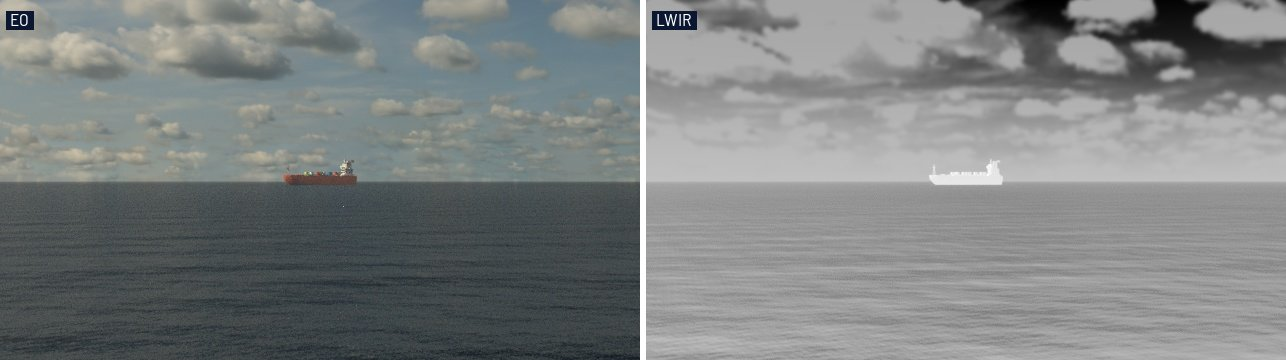
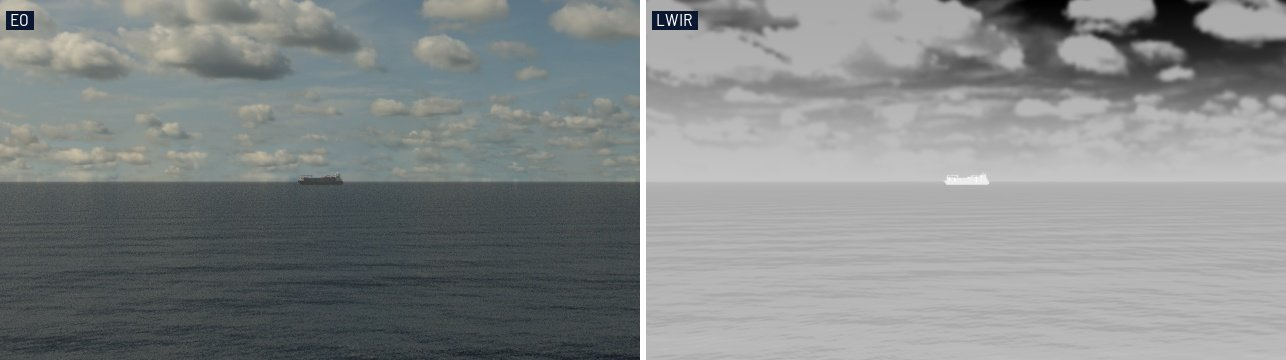
feat: the multipurpose freighter replaces the low-poly container ship
The flat-shaded Poly container ship was the first asset and the baseline's
target. The textured multipurpose freighter takes its place in every
scenario, preset, doc and test, and the hero and primer figures are
re-rendered with it.

The loop test now keys the frame after the last and checks every channel
is back at its first value, instead of asking the seam to bend no more
than any other frame, which a periodic curve can do by chance. The hero
keeps a long label inside its frame.

Changed region(s): [[0.4977, 0.4583, 1.0, 1.0], [0.2177, 0.4583, 0.2799, 0.5194], [0.4977, 0.0306, 0.5599, 0.0611]]

diff --git a/tests/test_scene.py b/tests/test_scene.py
@@ -17,7 +17,16 @@ from mathutils import Vector
 from seascape import blend, lwir, scene, sea, waves
 from seascape.assets import Buoy, Debris, Hull, manifest
 from seascape.calibration import CameraCalibration
-from seascape.config import Band, Mount, Object, Rig, Scenario, load, substream
+from seascape.config import (
+    Band,
+    Mount,
+    Object,
+    Outputs,
+    Rig,
+    Scenario,
+    load,
+    substream,
+)
 from tests.scenarios import (
     BASELINE,
     DRIFTING,
@@ -505,10 +514,10 @@ def test_the_far_clip_clears_a_hull_down_target() -> None:
     scenario = variant(
         rig={"height_m": 5.0},
         cameras={"eo": {"hfov_deg": 2.0, "width_px": 960, "height_px": 540}},
-        objects=[preset_target("container_ship", range_m)],
+        objects=[preset_target("multipurpose_freighter", range_m)],
     )
     built = scene.build(scenario, "eo")
-    (anchor,) = built.targets["container_ship"]
+    (anchor,) = built.targets["multipurpose_freighter"]
     corners = scene._corners(scene._meshes([anchor]))
     top_m = max(c.z for c in corners) - anchor.matrix_world.translation.z
     k = scenario.sea.refraction_k
@@ -1200,21 +1209,29 @@ class TestDrifting:
                 (pitch, -roll), abs=1e-5
             )
 
-    def test_a_loop_runs_from_its_last_frame_into_its_first_like_any_other(
-        self,
-    ) -> None:
-        """Wrapped round, no channel bends at the seam more than anywhere else."""
-        channels = dict(keyed())
 
-        assert len(channels) == 10, (
-            "the target's xyz, pitch, roll; the ownship's pitch, roll, heave; "
-            "the sea's cos, sin"
-        )
-        for name, values in channels.items():
-            bend = np.abs(np.diff(np.append(values, values[:2]), 2))
-            # A few ulps: F-curves are float32.
-            ulp = np.spacing(np.float32(np.abs(values).max()))
-            assert bend[-2:].max() <= bend[:-2].max() + 4 * ulp, name
+def test_a_loop_keyed_one_frame_past_its_end_is_back_at_its_first() -> None:
+    """The frame after the last, which a loop plays as frame 0, keyed for real."""
+    outputs = TestDrifting.SCENARIO.outputs
+    times_s, span_s = outputs.times_s, outputs.span_s
+    with pytest.MonkeyPatch.context() as patch:
+        patch.setattr(Outputs, "times_s", property(lambda _: [*times_s, span_s]))
+        patch.setattr(Outputs, "span_s", property(lambda _: span_s))
+        scene.build(TestDrifting.SCENARIO)
+
+    channels = dict(keyed())
+
+    assert len(channels) == 10, (
+        "the target's xyz, pitch, roll; the ownship's pitch, roll, heave; "
+        "the sea's cos, sin"
+    )
+    # A few ulps: F-curves are float32.
+    unclosed = [
+        name
+        for name, values in channels.items()
+        if abs(values[-1] - values[0]) > 4 * np.spacing(np.float32(abs(values).max()))
+    ]
+    assert unclosed == []
 
 
 class TestWakes:
@@ -1228,7 +1245,9 @@ class TestWakes:
         assert "wake_normal" in tree.nodes
 
     def test_a_slow_ship_s_arms_go_unseen_and_unbuilt(self) -> None:
-        tree = self._built(preset_target("container_ship", 2000.0, speed_mps=5.0))
+        tree = self._built(
+            preset_target("multipurpose_freighter", 2000.0, speed_mps=5.0)
+        )
         assert "sea_foam" in bpy.data.images
         assert "wake_normal" not in tree.nodes
 

diff --git a/tests/test_config.py b/tests/test_config.py
@@ -179,7 +179,7 @@ def test_a_bad_override_is_refused(override: str, error: type[Exception]) -> Non
 def test_objects_merge_their_preset(baseline) -> None:
     """A list-of-tables preset: asset and temperature from cfg, pose here."""
     obj = baseline.objects[0]
-    assert (obj.asset, obj.t_k) == ("container_ship", 295.0)
+    assert (obj.asset, obj.t_k) == ("multipurpose_freighter", 295.0)
     assert (obj.range_m, obj.bearing_deg) == (2000.0, 8.0)
 
 
@@ -496,13 +496,13 @@ def test_a_loop_rounds_each_period_to_a_whole_fraction_of_the_clip() -> None:
         (
             "drifting.toml",
             [
-                'targets = { asset = "container_ship", count = 2, range_m = 900.0,'
-                " bearing_deg = [-5.0, 5.0], speed_mps = 1.0 }"
+                'targets = { asset = "multipurpose_freighter", count = 2,'
+                " range_m = 900.0, bearing_deg = [-5.0, 5.0], speed_mps = 1.0 }"
             ],
             "drift",
         ),
         ("drifting.toml", ["outputs.duration_s = 8"], "ownship.roll's 9.0 s"),
-        ("drifting.toml", ["outputs.duration_s = 20"], "container_ship drift"),
+        ("drifting.toml", ["outputs.duration_s = 20"], "multipurpose_freighter drift"),
         ("port-pod-loop.toml", ["outputs.duration_s = 30"], "yacht orbit's 40.0 s"),
         (
             "drifting.toml",

diff --git a/docs/hero.py b/docs/hero.py
@@ -70,7 +70,9 @@ def frame(
         r = a["range_m"]
         dist = f"{r / 1000:.1f} km" if r >= 1000 else f"{r:.0f} m"
         text = f"{a['name']}  {dist}  {a['bearing_deg']:.1f}°"
-        tag(draw, (x0 + 4, y0 - 20), text, FOCUS_RED, 15)
+        # Inside the frame, whatever the name's length.
+        width = draw.textlength(text, font=font(15))
+        tag(draw, (min(x0 + 4, img.width - width - 8), y0 - 20), text, FOCUS_RED, 15)
     return captioned(img, caption)
 
 

diff --git a/tests/test_render_drift.py b/tests/test_render_drift.py
@@ -611,7 +611,7 @@ def _set_after(setting: str, built: bool) -> np.ndarray:
     scenario = variant(
         rig={"pitch_deg": -3.0},
         cameras={"eo": {"width_px": 320, "height_px": 180}},
-        objects=[preset_target("container_ship", 3e3)],
+        objects=[preset_target("multipurpose_freighter", 3e3)],
         outputs=outputs,
         sky=sky,
     )

diff --git a/docs/primer/figures.py b/docs/primer/figures.py
@@ -21,7 +21,7 @@ HERE = Path(__file__).parent
 PRIMER = HERE / "primer.toml"
 GAP_PX = 6
 SHIP = (
-    '{ preset = "container_ship", range_m = %s, '
+    '{ preset = "multipurpose_freighter", range_m = %s, '
     "bearing_deg = 0.0, heading_deg = 250.0 }"
 )
 SUN_AHEAD = ["sky.sun_bearing_deg = 0.0", "sky.sun_elevation_deg = 12.0"]

diff --git a/docs/primer/README.md b/docs/primer/README.md
@@ -96,11 +96,11 @@ Blender only knows red, green and blue, so all of this is NumPy: emissivity from
 
 Two things happen as a ship gets farther away. The air scatters its light away and sky light in, so it fades into the sky:
 
-<p align="center"><img src="haze.jpg" alt="A container ship at 2 km with visibility 42, 10 and 3 km"></p>
+<p align="center"><img src="haze.jpg" alt="A freighter at 2 km with visibility 42, 10 and 3 km"></p>
 
 And the earth curves away under it. Past the horizon a ship sinks hull-down:
 
-<p align="center"><img src="horizon.jpg" alt="A container ship at 15, 30 and 40 km, seen from 30 m up"></p>
+<p align="center"><img src="horizon.jpg" alt="A freighter at 15, 30 and 40 km, seen from 30 m up"></p>
 
 <p align="center">
   <picture>
